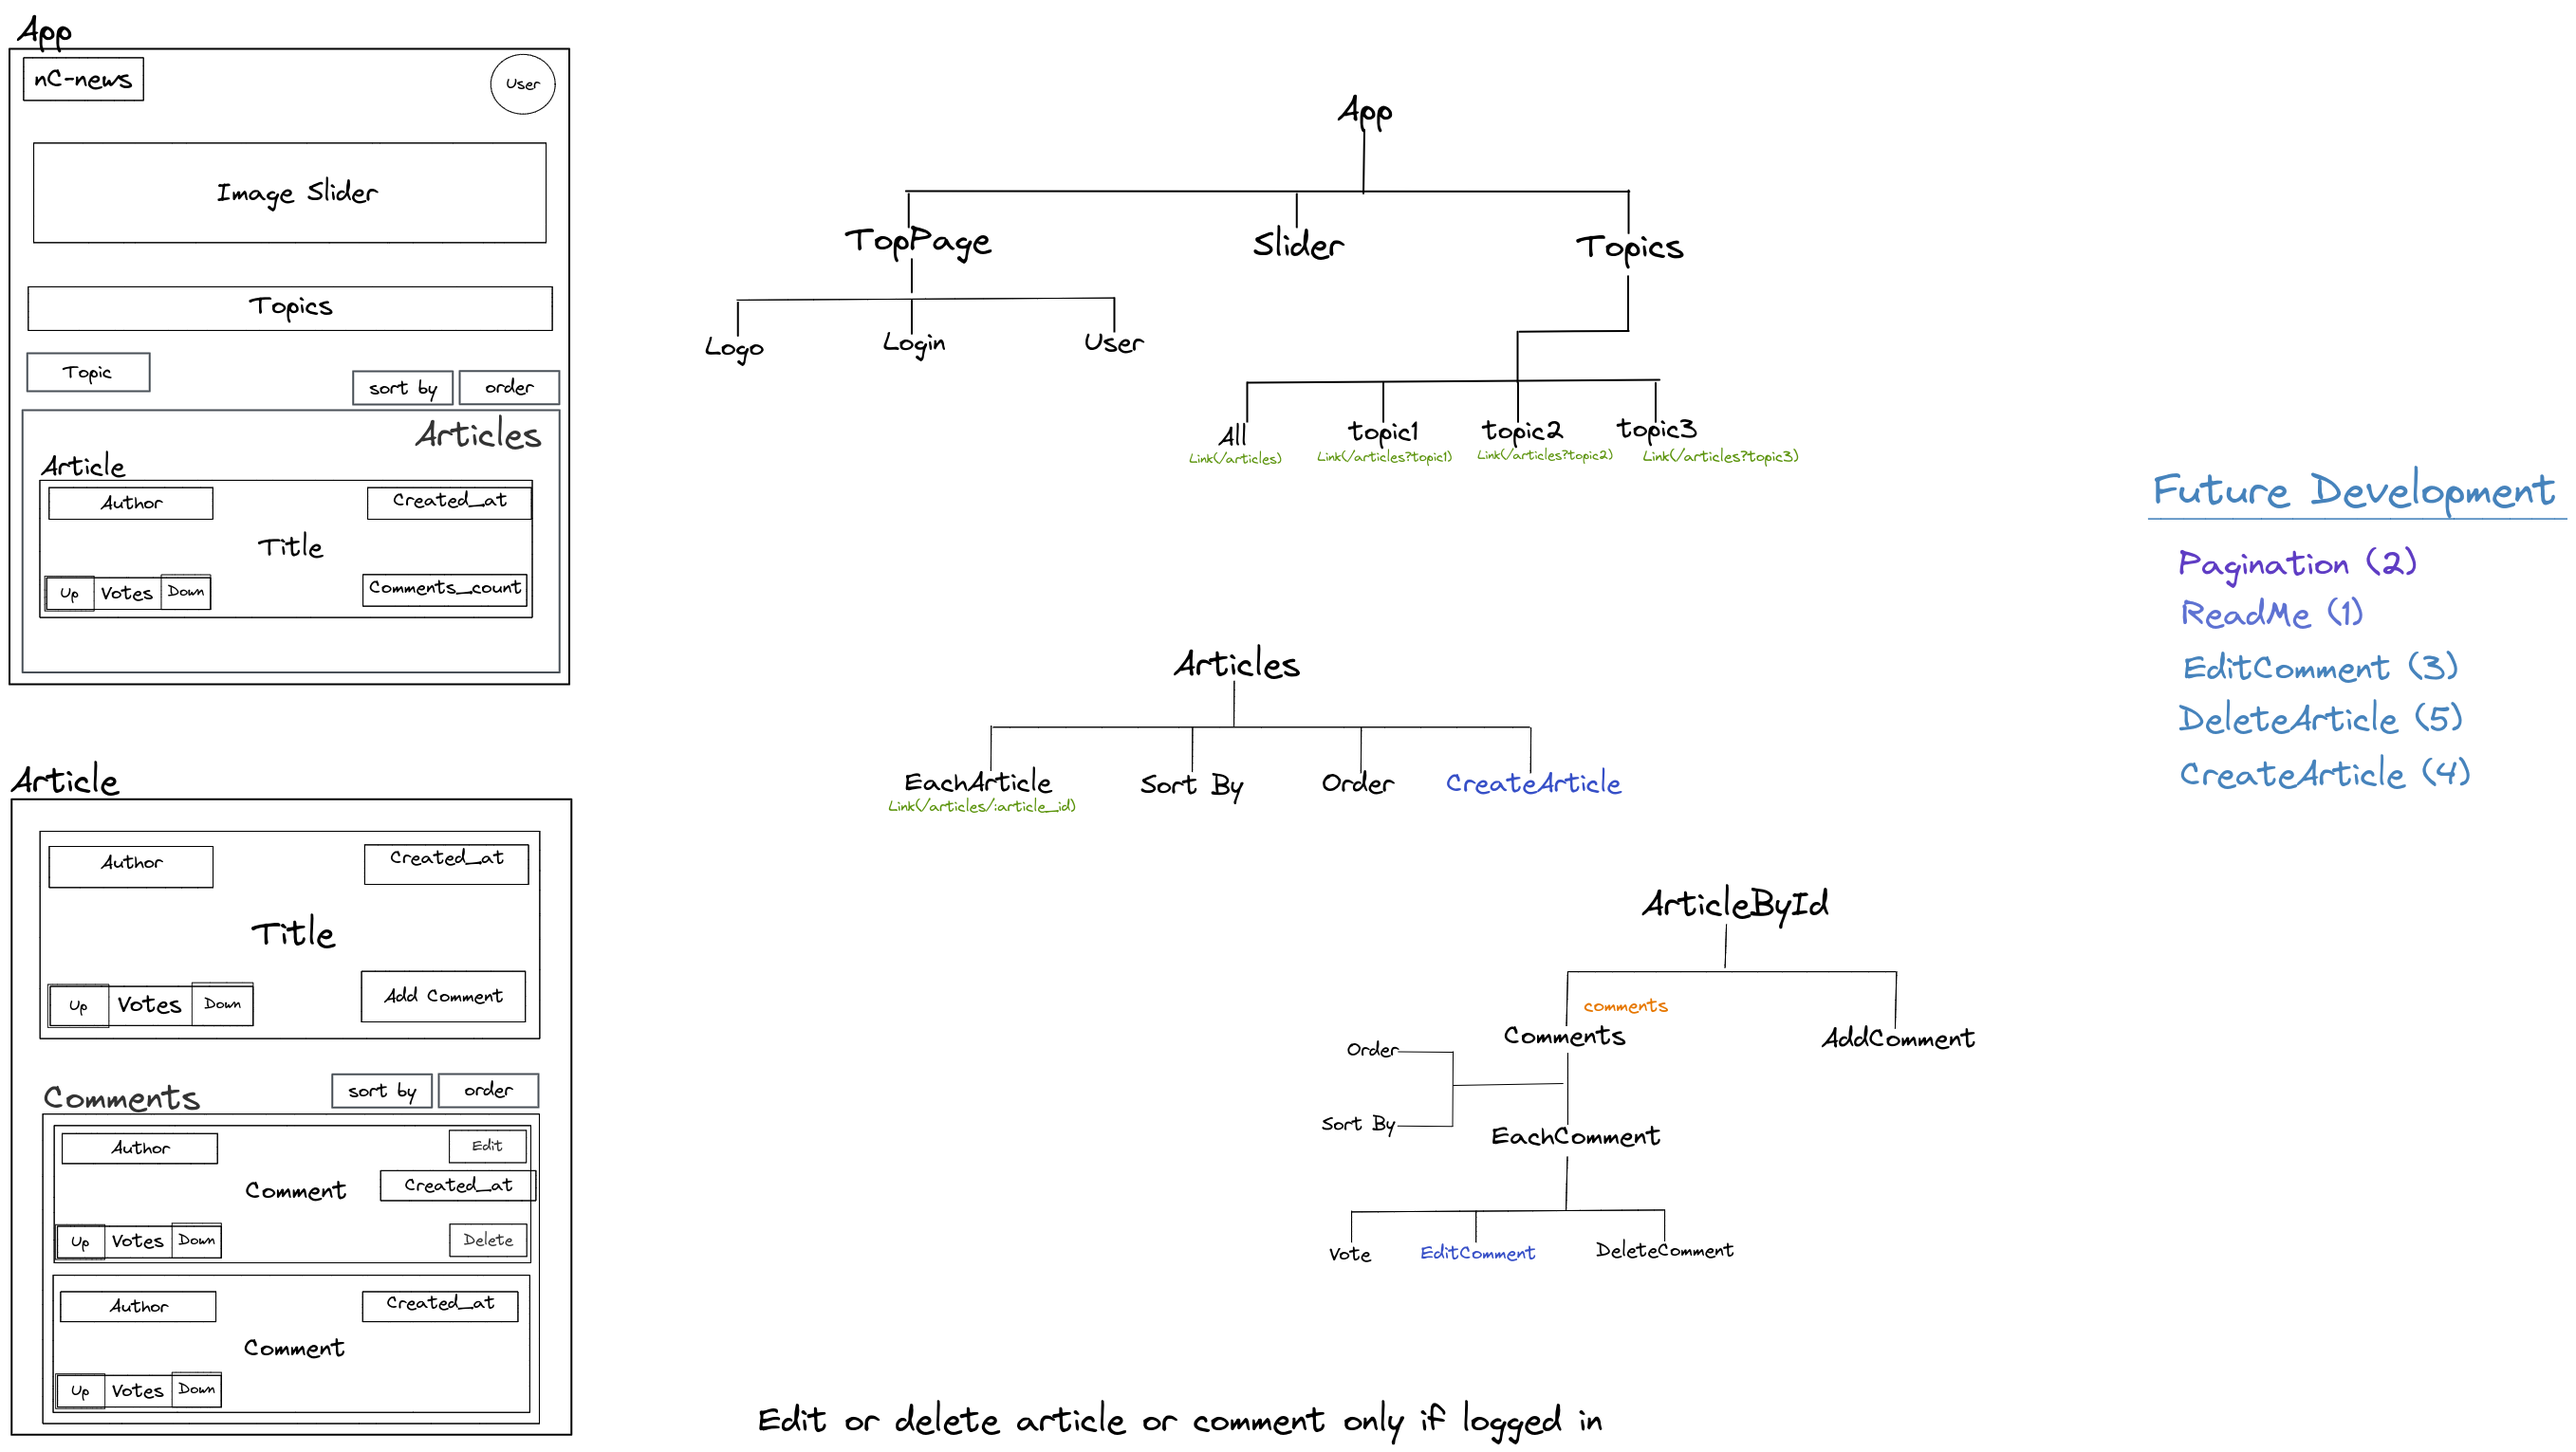
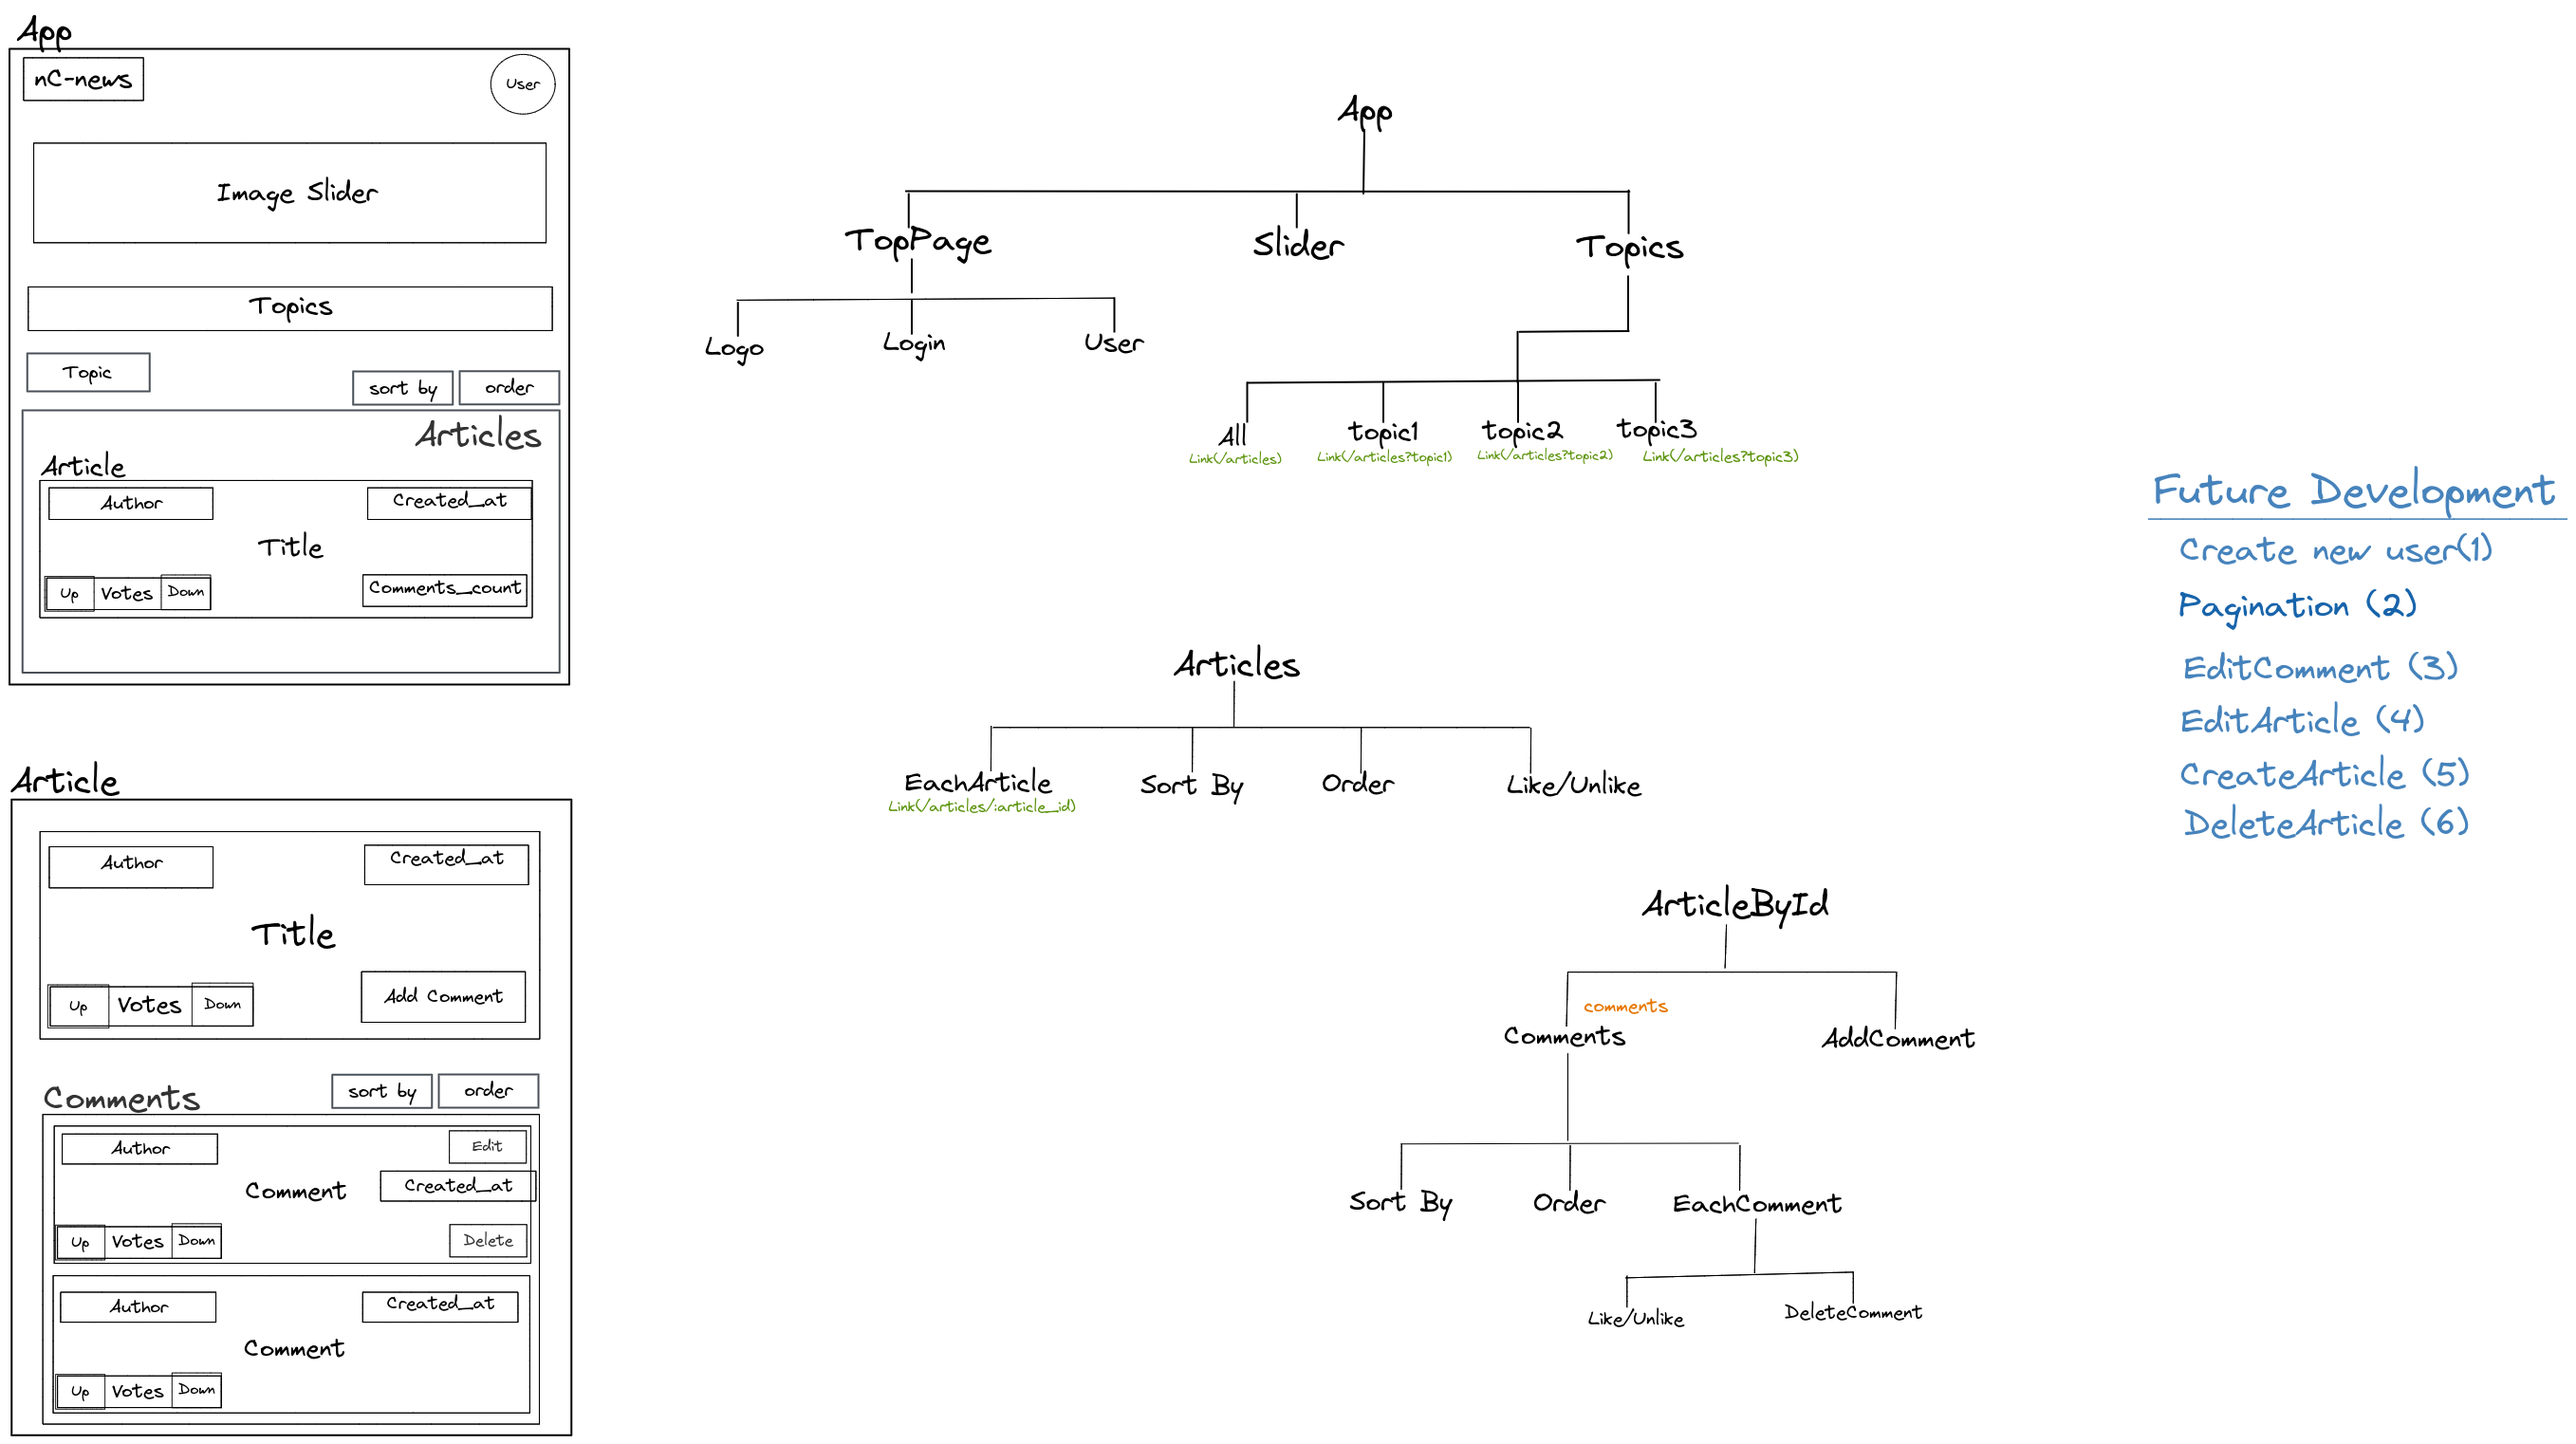
create README and add screenshots from the app

diff --git a/README.md b/README.md
@@ -1,0 +1,72 @@
+# nC-news
+
+_A mobile-first, responsive Front-End app build with ReactJS and CSS-modules which interacts with my own API. It's a news article app where you can view, like/unlike and leave comments on articles._
+
+**Live URL**: [https://nenad-nc-news.netlify.app](https://nenad-nc-news.netlify.app)
+
+<img src="screenshots/Screenshot 2.png" alt="screenshot" width="900" height="700"/>
+<img src="screenshots/Screenshot.png" alt="screenshot" width="900" height="700"/>
+
+## View Back-End API
+
+---
+
+**Live URL**: [https://nenad-nc-news-api.herokuapp.com/api](https://nenad-nc-news-api.herokuapp.com/api)
+
+**GitHub**: [https://github.com/Nesh00/news-api](https://github.com/Nesh00/news-api)
+
+## Login as User to interact with the app
+
+---
+
+To login as a user here's a list of usernames that you can use:
+
+```
+tickle122, grumpy19, jessjelly, cooljmessy, weegembump, happyamy2016..
+```
+
+## Download
+
+---
+
+You can find the repository on my [**GitHub**](https://github.com/Nesh00/news-frontend) account and clone it down or just download the ZIP file.
+
+```
+git clone https://github.com/Nesh00/news-frontend
+
+```
+
+## Basic requirements
+
+---
+
+If you want to run this app on your local machine, make sure you have version [**NodeJS v16.11.0**](https://nodejs.org/en/) installed.
+
+## Installation
+
+---
+
+Once you have the repository on your computer, install the npm packages.
+
+```
+npm install
+```
+
+## Run app locally
+
+---
+
+```
+npm start
+```
+
+## Future development
+
+---
+
+My future goal for this app is:
+
+- Add a create new user form
+- Add pagination on both articles and comments
+- Edit your own comments
+- As user you can create, edit and delete your own articles
